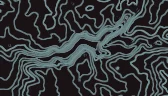
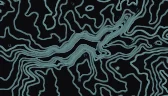
Use #0b0b0d paper on the built-in map terrains
Istanbul, Geirangerfjord, Mount Fuji and Yosemite now name #0b0b0d as
their paper. The dock pictures are drawn again with the fixed script;
the minimaps do not change.

diff --git a/apps/playground/src/region/map-looks.ts b/apps/playground/src/region/map-looks.ts
@@ -30,7 +30,7 @@ export interface MapLook {
 
 /**
  * Istanbul, decoded with readSettings from the query
- * `?s=gentle-summit&seed=67&lc=36&lw=0&lo=0.9&ix=4&fd=0.15&m=dark&mode=3d&ex=block&ev=0.12&az=353.3&ce=45.1&rd=1.15&px=0.043&pz=-0.075&place=istanbul`.
+ * `?s=gentle-summit&seed=67&lc=36&lw=0&lo=0.9&ix=4&fd=0.15&m=dark&paper=0b0b0d&mode=3d&ex=block&ev=0.12&az=353.3&ce=45.1&rd=1.15&px=0.043&pz=-0.075&place=istanbul`.
  */
 export const ISTANBUL_SETTINGS = {
   style: 'gentle-summit',
@@ -39,7 +39,7 @@ export const ISTANBUL_SETTINGS = {
   terrain: { peaks: 1, spread: 0.5, roughness: 0, sharpness: 0.5, terracing: 0, variant: 0.5 },
   motion: { speed: 1, warp: 0.47, sparkle: 0.6 },
   layout: { anchor: 0, fade: 0.15 },
-  theme: { mode: 'dark' },
+  theme: { mode: 'dark', paper: '#0b0b0d' },
   mode: '3d',
   elevation: 0.12,
   extent: 'block',
@@ -47,8 +47,8 @@ export const ISTANBUL_SETTINGS = {
 } as const satisfies SettingsInput;
 
 /**
- * Geirangerfjord, Mount Fuji and Yosemite share the rose pod look with their own ink, elevation and camera
- * angle, decoded from `?look=rose-pod&lc=36&lw=0&lo=0.9&ix=4&ink=…&mode=3d&ex=block&ev=…&az=341.8&ce=…&rd=1.32&px=0.033&pz=-0.049&place=…`.
+ * Geirangerfjord, Mount Fuji and Yosemite share the rose pod look on #0b0b0d paper, with their own ink, elevation and camera
+ * angle, decoded from `?look=rose-pod&lc=36&lw=0&lo=0.9&ix=4&ink=…&paper=0b0b0d&mode=3d&ex=block&ev=…&az=341.8&ce=…&rd=1.32&px=0.033&pz=-0.049&place=…`.
  */
 function rosePod(ink: string, elevation: number, cameraElevation: number): SettingsInput {
   return {
@@ -58,7 +58,7 @@ function rosePod(ink: string, elevation: number, cameraElevation: number): Setti
     terrain: { peaks: 1, spread: 0.5, roughness: 0, sharpness: 0.5, terracing: 0, variant: 0.5 },
     motion: { speed: 0.55, warp: 0.47, sparkle: 0.6 },
     layout: { anchor: 0, fade: 0.15 },
-    theme: { mode: 'dark', paper: '#1a1214', ink },
+    theme: { mode: 'dark', paper: '#0b0b0d', ink },
     mode: '3d',
     elevation,
     extent: 'block',

diff --git a/apps/playground/src/region/map-looks.test.ts b/apps/playground/src/region/map-looks.test.ts
@@ -4,7 +4,7 @@ import { findPlace } from './places';
 import { findMapLook, MAP_LOOKS } from './map-looks';
 
 /** The reference query for the built-in Istanbul. */
-const ISTANBUL_URL = '?s=gentle-summit&seed=67&lc=36&lw=0&lo=0.9&ix=4&fd=0.15&m=dark&mode=3d&ex=block&ev=0.12&az=353.3&ce=45.1&rd=1.15&px=0.043&pz=-0.075&place=istanbul';
+const ISTANBUL_URL = '?s=gentle-summit&seed=67&lc=36&lw=0&lo=0.9&ix=4&fd=0.15&m=dark&paper=0b0b0d&mode=3d&ex=block&ev=0.12&az=353.3&ce=45.1&rd=1.15&px=0.043&pz=-0.075&place=istanbul';
 
 describe('built-in map terrains', () => {
   it('decodes Istanbul to exactly the settings of its reference query, camera and pan included', () => {
@@ -20,9 +20,9 @@ describe('built-in map terrains', () => {
   });
 
   it.each([
-    ['geirangerfjord', '?look=rose-pod&lc=36&lw=0&lo=0.9&ix=4&ink=a8c7f0&mode=3d&ex=block&ev=0.16&az=341.8&ce=35&rd=1.32&px=0.033&pz=-0.049&place=geirangerfjord'],
-    ['fuji', '?look=rose-pod&lc=36&lw=0&lo=0.9&ix=4&ink=9fbecc&mode=3d&ex=block&ev=0.24&az=341.8&ce=30&rd=1.32&px=0.033&pz=-0.049&place=fuji'],
-    ['yosemite', '?look=rose-pod&lc=36&lw=0&lo=0.9&ix=4&ink=a8eff0&mode=3d&ex=block&ev=0.16&az=341.8&ce=35&rd=1.32&px=0.033&pz=-0.049&place=yosemite'],
+    ['geirangerfjord', '?look=rose-pod&lc=36&lw=0&lo=0.9&ix=4&ink=a8c7f0&paper=0b0b0d&mode=3d&ex=block&ev=0.16&az=341.8&ce=35&rd=1.32&px=0.033&pz=-0.049&place=geirangerfjord'],
+    ['fuji', '?look=rose-pod&lc=36&lw=0&lo=0.9&ix=4&ink=9fbecc&paper=0b0b0d&mode=3d&ex=block&ev=0.24&az=341.8&ce=30&rd=1.32&px=0.033&pz=-0.049&place=fuji'],
+    ['yosemite', '?look=rose-pod&lc=36&lw=0&lo=0.9&ix=4&ink=a8eff0&paper=0b0b0d&mode=3d&ex=block&ev=0.16&az=341.8&ce=35&rd=1.32&px=0.033&pz=-0.049&place=yosemite'],
   ])('decodes %s to exactly the settings of its reference query', (id, url) => {
     expect(playgroundSettings(findMapLook(id)!.settings)).toEqual(readSettings(url));
   });
